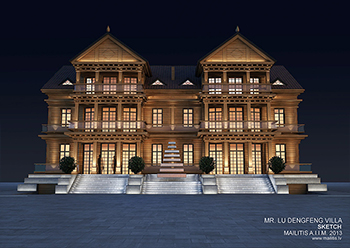
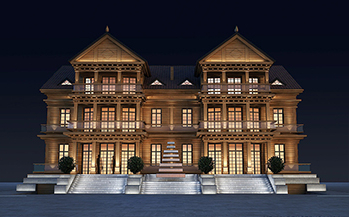
crop cinese villa, correct some titles

diff --git a/content/about.html b/content/about.html
@@ -19,7 +19,7 @@ title = "About Nils Austrums"
         <div class="col-md-8  col-xs-12">
             <p>Since I was a child I had a huge interest in fine arts, therefore naturally I chose to study sculpturing in college. Since then I have mastered 3D arts, and right now I am freelancing in Latvia, working on various interior/architecture projects.
             </p>
-            <p>I love games, movies, cosmos and traveling. It would be great to work on a project which involves all or some of those things.</p>
+            <p>I love traveling, movies, cosmos and games. It would be great to work on a project which involves all or some of those things.</p>
             <p>Feel free to get in touch if you want to know more about me or my works!</p>
         </div>
     </div>

diff --git a/content/post/video.md b/content/post/video.md
@@ -3,11 +3,11 @@ weight = 4
 date = "2014-07-11T10:54:24+02:00"
 draft = false
 title = "Shaoling flying monks"
-desc = "Video vimeo video vimeo"
-location = "vimeo"
-architect = "Matīss Mailītis"
-designer = "Matīss Mailītis"
-cooparation = "Matīss Mailītis"
+desc = "Animation project for entertainment area in sacred mountains of Shaolin"
+location = "Saoling, China"
+architect = "Austris Mailītis"
+designer = "Austris Mailītis"
+cooparation = "n/a"
 tags    =  "Exterior Animation All"
 slug = "video"
 site = "http://mailitis.lv/"

diff --git a/content/post/miesnieku.md b/content/post/miesnieku.md
@@ -3,7 +3,7 @@ weight = 6
 date = "2014-07-11T10:54:24+02:00"
 draft = false
 title = "Miesnieku"
-desc = "Interior renders for 3 building complex with 12 apartments, project consist with more than 100 renders"
+desc = "Interior renders for 3 building complex with 12 apartments, renewed medieval warehouse buildings. Project consist with more than 100 renders"
 location = "Rīga, Latvia"
 architect = "Arhis Arhitekti"
 designer = "Elizabete Ivanova"

diff --git a/content/post/skolas.md b/content/post/skolas.md
@@ -3,7 +3,7 @@ weight = 2
 date = "2014-07-11T10:54:24+02:00"
 draft = false
 title = "Skolas"
-desc = "Design for an apartment building, renders for one floor to represent all building, more than 75 renders"
+desc = "Designs for an historical art nouveau apartment building in center of Riga, renders for one floor to represent all building, more than 75 renders"
 location = "Rīga, Latvia"
 architect = "Architect"
 designer = "Elizabete Ivanova"

diff --git a/content/post/shaolin.md b/content/post/shaolin.md
@@ -3,9 +3,9 @@ weight = 8
 date = "2014-07-11T10:54:24+02:00"
 draft = false
 title = "Shaolin, Exterior project"
-desc = "Interior project for an apartment"
+desc = "Designs for Chinese villa"
 location = "Shaolin, China"
-architect = "Architect"
+architect = "Austris Mailītis"
 designer = "Austris Mailītis"
 cooparation = "n/a"
 tags    =  "Exterior All" 
